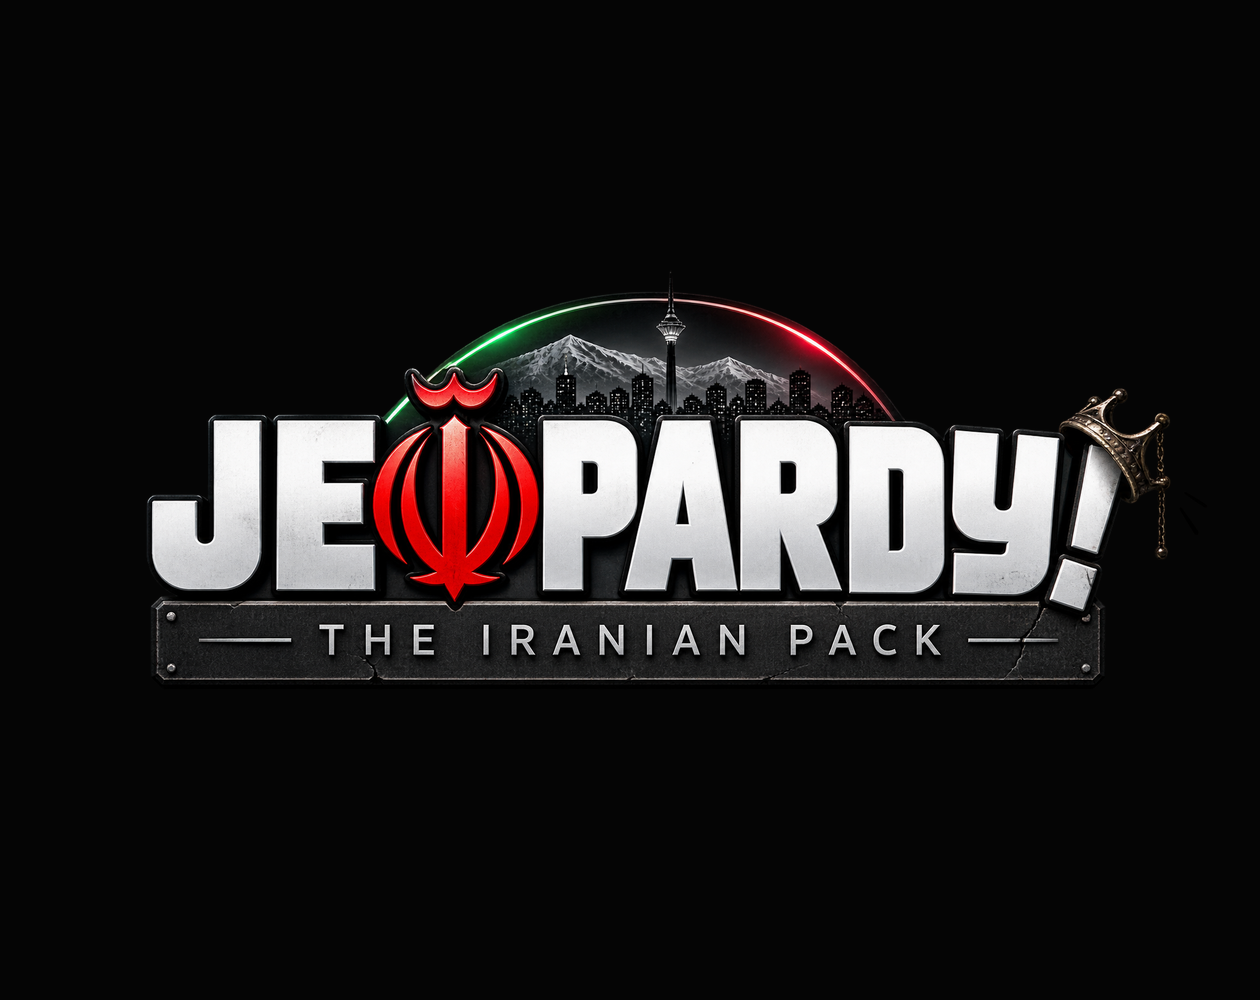
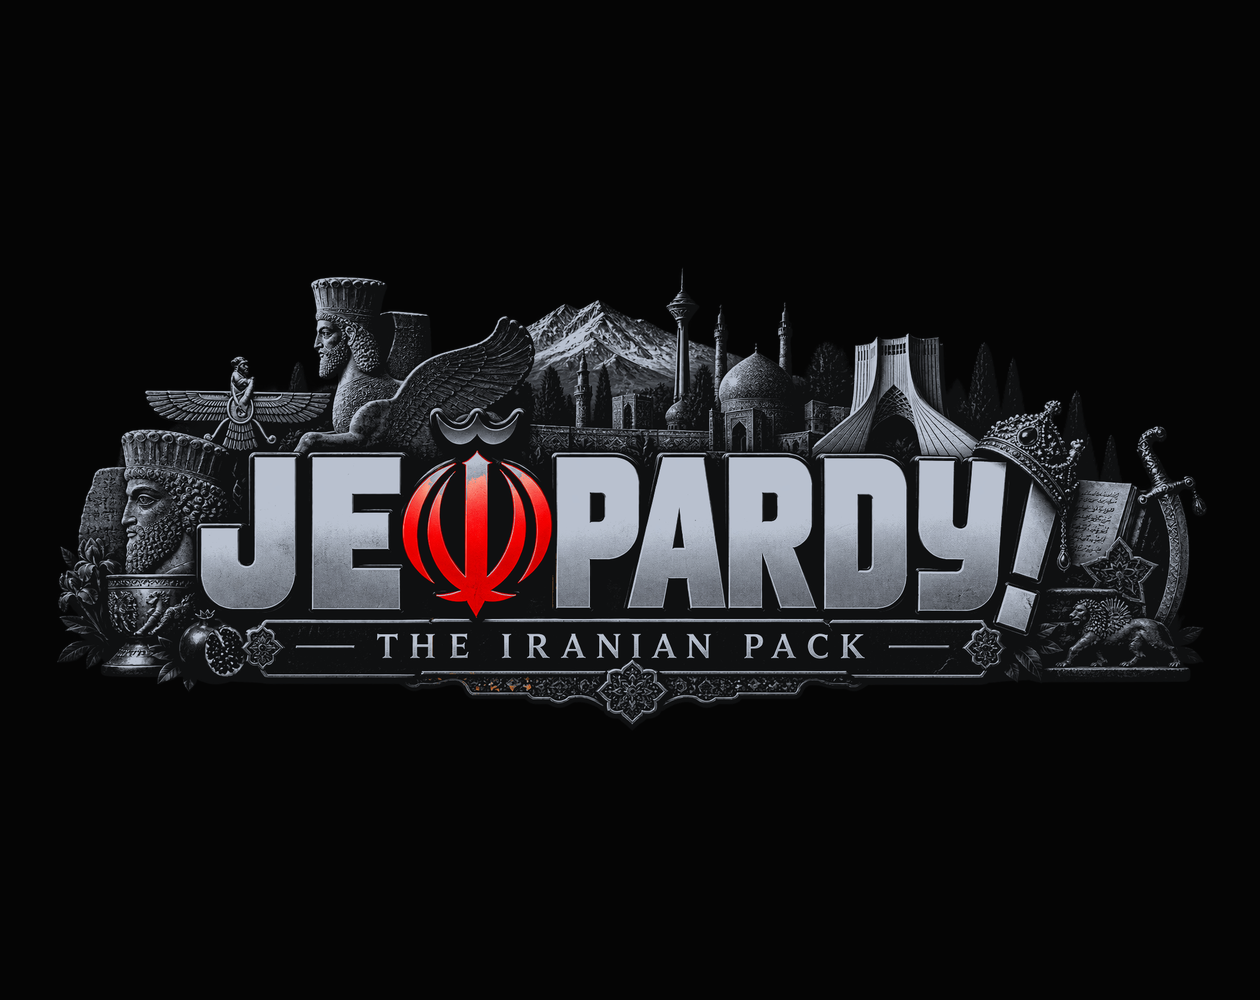
Re-skin the pack lockup to one metal, and keep only the emblem red
The front door's collage was reading as tacky, and the culprit was the
finish rather than the content: four competing hues across a dozen
photographs, so no element led. Nothing is added, removed, moved or
redrawn — the alpha channel is byte-identical to the delivered file, so
the drop-shadow silhouette and every downstream layout are unchanged.

Luminance is stretched to the 1st/99th percentile and S-curved about
mid-grey (lo 16, hi 198, gamma 1.25, contrast 1.45), then tinted cool at
r×0.94, g×0.985, b×1.06. The emblem keeps its red — and only the emblem:
the mask is restricted to red components within 200px of the emblem's
centroid, because two red notes (the emblem O and the pomegranate) read
as an accident rather than an accent.

The side benefit is size: 2,714,545 → 1,494,180 bytes on the screen every
player opens first.

The README banner and the itch cover are regenerated from the new source,
and the front-door cache token moves pack-23 → pack-24 so one image does
not force a whole-tree re-fetch.

Changed region(s): [[0.031, 0.279, 0.9595, 0.713]]

diff --git a/Web/styles.css b/Web/styles.css
@@ -1553,6 +1553,11 @@ html[data-screen="front"] .stage-bg {
   .rail { top: 11%; }
   .logo-lobby { width: min(40vw, 620px); }
   .logo-hero  { width: min(42vw, 660px); }
+  /* The front door's mark was the one logo missing from this rule, and it is
+     the one that needed it most: `68vh` against a 560px window is 380, well
+     inside the 640 cap, so the width term was still free to hand it 560 and let
+     it own the whole first screen of a window that scrolls. */
+  .brand-wordmark { width: min(40vw, 470px); }
   .tagline { display: none; }
 }
 
@@ -1740,9 +1745,47 @@ html[data-screen="front"] .stage-bg::after { opacity: 0.22; }
 .brand-lockup {
   display: flex; flex-direction: column; align-items: center;
 }
+/* The mark answers to height as well as width, because on this screen height is
+   what is scarce. A wordmark sized on width alone is a 224px-tall object in a
+   1000px window and a 224px-tall object in an 800px one, and the door it is
+   starving is the chooser underneath it: at 1280×800 the circles were already
+   landing below the fold with the tagline as the last thing on screen. The `vh`
+   term is the room actually available, so the mark grows to 640 wherever there
+   is height for it (1600×1000 and up, where the old 560 was leaving a hand's
+   width of empty stage either side) and gives a little back at 800, where the
+   door was scrolling to reach its own front door. */
 .brand-wordmark {
-  display: block; width: min(48vw, 560px); max-width: 100%;
+  display: block; width: min(52vw, 640px, 68vh); max-width: 100%;
   filter: drop-shadow(0 14px 44px rgba(0,0,0,0.82));
+}
+
+/* The door's one move: the mark arrives instead of being there when the page
+   paints. It comes forward and down — 93% and a hand's width low, settling on
+   the house ease — so the first thing the eye does on this screen is watch the
+   logo land. One shot, no loop. This is a greeting, not an ornament, and the
+   front door is the only screen in the build that gets one.
+
+   `both` is load-bearing. The plate is built and shown in the same frame, so
+   without the fill the lockup paints at its final size for one frame before the
+   keyframes take hold, and the arrival reads as a flicker rather than a landing.
+
+   It replays, because `showScreen()` strips `is-active` off every screen before
+   it stamps the next one — coming back from a match lands on a door that greets
+   you again, which is the point.
+
+   The scale *is* the depth. The raster carries its own bevel and contact shadow,
+   so a second drop-shadow would double the edge the note above forbids, and a
+   `perspective`/`translateZ` rig would resolve to exactly this scale on a
+   centred element — same pixels, more machinery. */
+#screen-front.is-active .brand-lockup {
+  animation: brand-arrive 0.86s cubic-bezier(0.2,1.08,0.3,1) both;
+}
+@keyframes brand-arrive {
+  from { opacity: 0; transform: translateY(16px) scale(0.93); }
+  to   { opacity: 1; transform: none; }
+}
+@media (prefers-reduced-motion: reduce) {
+  #screen-front.is-active .brand-lockup { animation: none; }
 }
 
 .chooser {
@@ -2979,7 +3022,7 @@ html[dir="rtl"] .edition-main .edition-enter { padding: 0 7px; }
 
 @media (max-width: 520px) {
   #screen-front .center { gap: 11px; padding: 62px 16px 20px; }
-  .brand-wordmark { width: min(74vw, 340px); }
+  .brand-wordmark { width: min(78vw, 380px, 68vh); }
   #screen-front > .plate > .center > .menu-inline {
     grid-template-columns: repeat(2, 92px);
   }
@@ -3039,7 +3082,7 @@ html[dir="rtl"] .edition-main .edition-enter { padding: 0 7px; }
     justify-content: flex-start;
     padding: 62px 16px calc(24px + env(safe-area-inset-bottom));
   }
-  #screen-front .brand-wordmark { width: min(72vw, 330px); }
+  #screen-front .brand-wordmark { width: min(76vw, 360px, 68vh); }
   #screen-front > .plate > .center > .tagline {
     max-width: min(88vw, 410px); font-size: 12px; line-height: 1.48;
   }

diff --git a/Web/index.html b/Web/index.html
@@ -81,7 +81,7 @@
 
       <div class="center">
         <div class="brand-lockup">
-          <img class="brand-wordmark" src="assets/logo-iranian-pack.png?v=20260915-pack-23"
+          <img class="brand-wordmark" src="assets/logo-iranian-pack.png?v=20260916-pack-24"
                alt="JEOPARDY! The Iranian Pack">
         </div>
         <p class="tagline" data-i18n-html="front.tagline">Sure, you say you know Iranian history. So does my uncle, my Snapp driver, and the guy I met at the bus stop — and I don’t even take the bus.<br>
